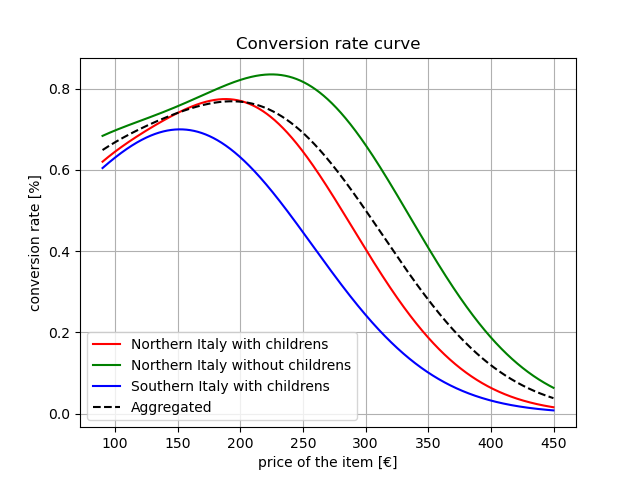
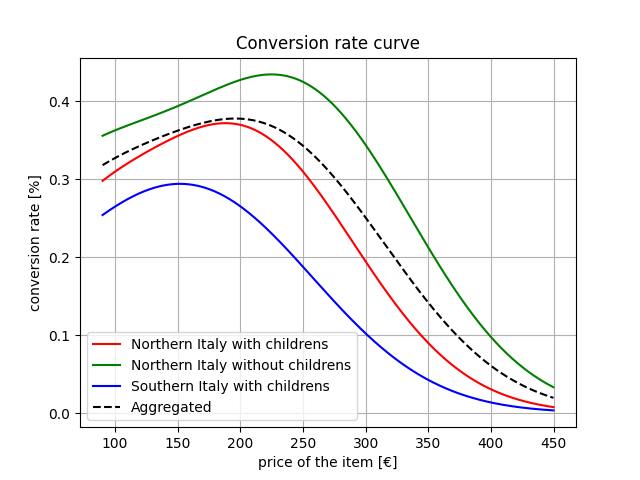
fix conversion rate curve graph

diff --git a/utils.py b/utils.py
@@ -51,10 +51,10 @@ def getProbabilities(userType):
 
 def getDemandCurve(userType, t):
     if userType == 0:
-        return 0.75*np.exp(-np.power(t - 200, 2.) / (2*np.power(90, 2.))) + 0.3*np.exp(-np.power(t - 60, 2.) / (2*np.power(60, 2.)))
+        return 0.48*(0.75*np.exp(-np.power(t - 200, 2.) / (2*np.power(90, 2.))) + 0.3*np.exp(-np.power(t - 60, 2.) / (2*np.power(60, 2.))))
     elif userType == 1:
-        return 0.75*np.exp(-np.power(t - 250, 2.) / (2*np.power(90, 2.))) + 0.55*np.exp(-np.power(t - 65, 2.) / (2*np.power(90, 2.)))
+        return 0.52*(0.75*np.exp(-np.power(t - 250, 2.) / (2*np.power(90, 2.))) + 0.55*np.exp(-np.power(t - 65, 2.) / (2*np.power(90, 2.))))
     elif userType == 2:
-        return 0.42*np.exp(-np.power(t - 180, 2.) / (2*np.power(90, 2.))) + 0.35*np.exp(-np.power(t - 85, 2.) / (2*np.power(120, 2.)))
+        return 0.42*(0.42*np.exp(-np.power(t - 180, 2.) / (2*np.power(90, 2.))) + 0.35*np.exp(-np.power(t - 85, 2.) / (2*np.power(120, 2.))))
     else:
         return getProbabilities(0)*getDemandCurve(0, t) + getProbabilities(1)*getDemandCurve(1, t) + getProbabilities(2)*getDemandCurve(2, t)

diff --git a/pdf/sections/conversions.tex b/pdf/sections/conversions.tex
@@ -1,3 +1,3 @@
 Since the Louis Vuitton brand logo scarf is classified as a luxury good, we hypothesised the three conversion rate curves to have non-negative-slope and reaching their peak near the \EUR{200-250} range. \\These curves are the curves that rule the environment of our experiment.\\An illustration of our hypothesised conversion rate curve is presented below:\newline
-\makebox[\textwidth][c]{\includegraphics[width=1.2\textwidth]{../curves/real_curves/conversion_rate_curve}} 
+\makebox[\textwidth][c]{\includegraphics[width=1.1\textwidth]{../curves/real_curves/conversion_rate_curve}} 
 \clearpage
